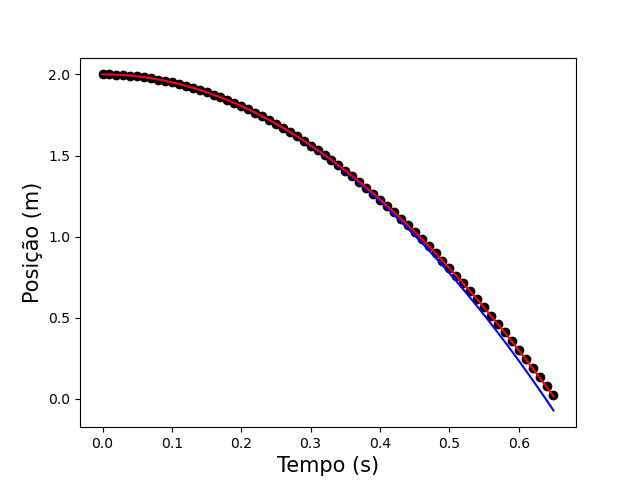
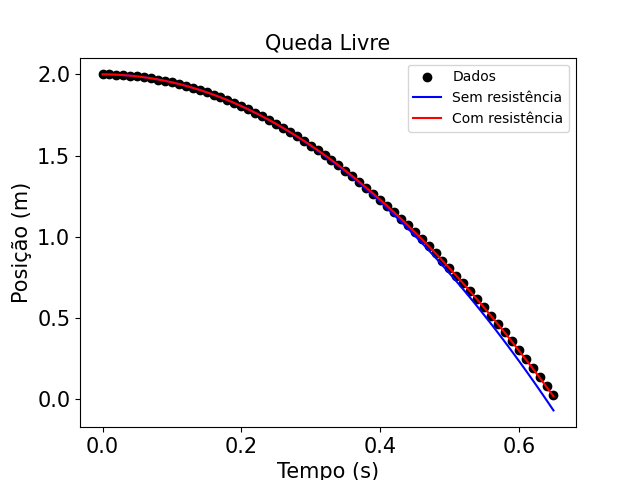
add

diff --git a/Lista1/exercicio1.py b/Lista1/exercicio1.py
@@ -45,16 +45,21 @@ print("b) O modelo com resistência do ar descreve melhor os dados")
 print("c) valor mínimo: "+str(vmin)+"m/s       Valor máximo: "+str(vmax)+" m/s")
 print("============================================================")
 
-plt.scatter(t,y,color='black')
-plt.plot(time,y1_data,color='blue')
-plt.plot(time,y2_data,color='red')
+plt.scatter(t,y,color='black', label='Dados')
+plt.plot(time,y1_data,color='blue', label='Sem resistência')
+plt.plot(time,y2_data,color='red', label='Com resistência')
+plt.title("Queda Livre", fontsize='15')
 plt.xlabel("Tempo (s)", fontsize='15')
 plt.ylabel("Posição (m)", fontsize='15')
+plt.tick_params(axis='both', labelsize=15)
+plt.legend(loc='best')
 plt.savefig("plot_exercicio1_ab.png")
 plt.show()
 
 plt.scatter(tt,vm_t, color='green')
+plt.title("Velocidade média",fontsize='15')
 plt.xlabel("Tempo (s)", fontsize='15')
 plt.ylabel("Velocidade média (m/s)", fontsize='15')
+plt.tick_params(axis='both', labelsize=15)
 plt.savefig("plot_exercicio1_c.png")
 plt.show()
